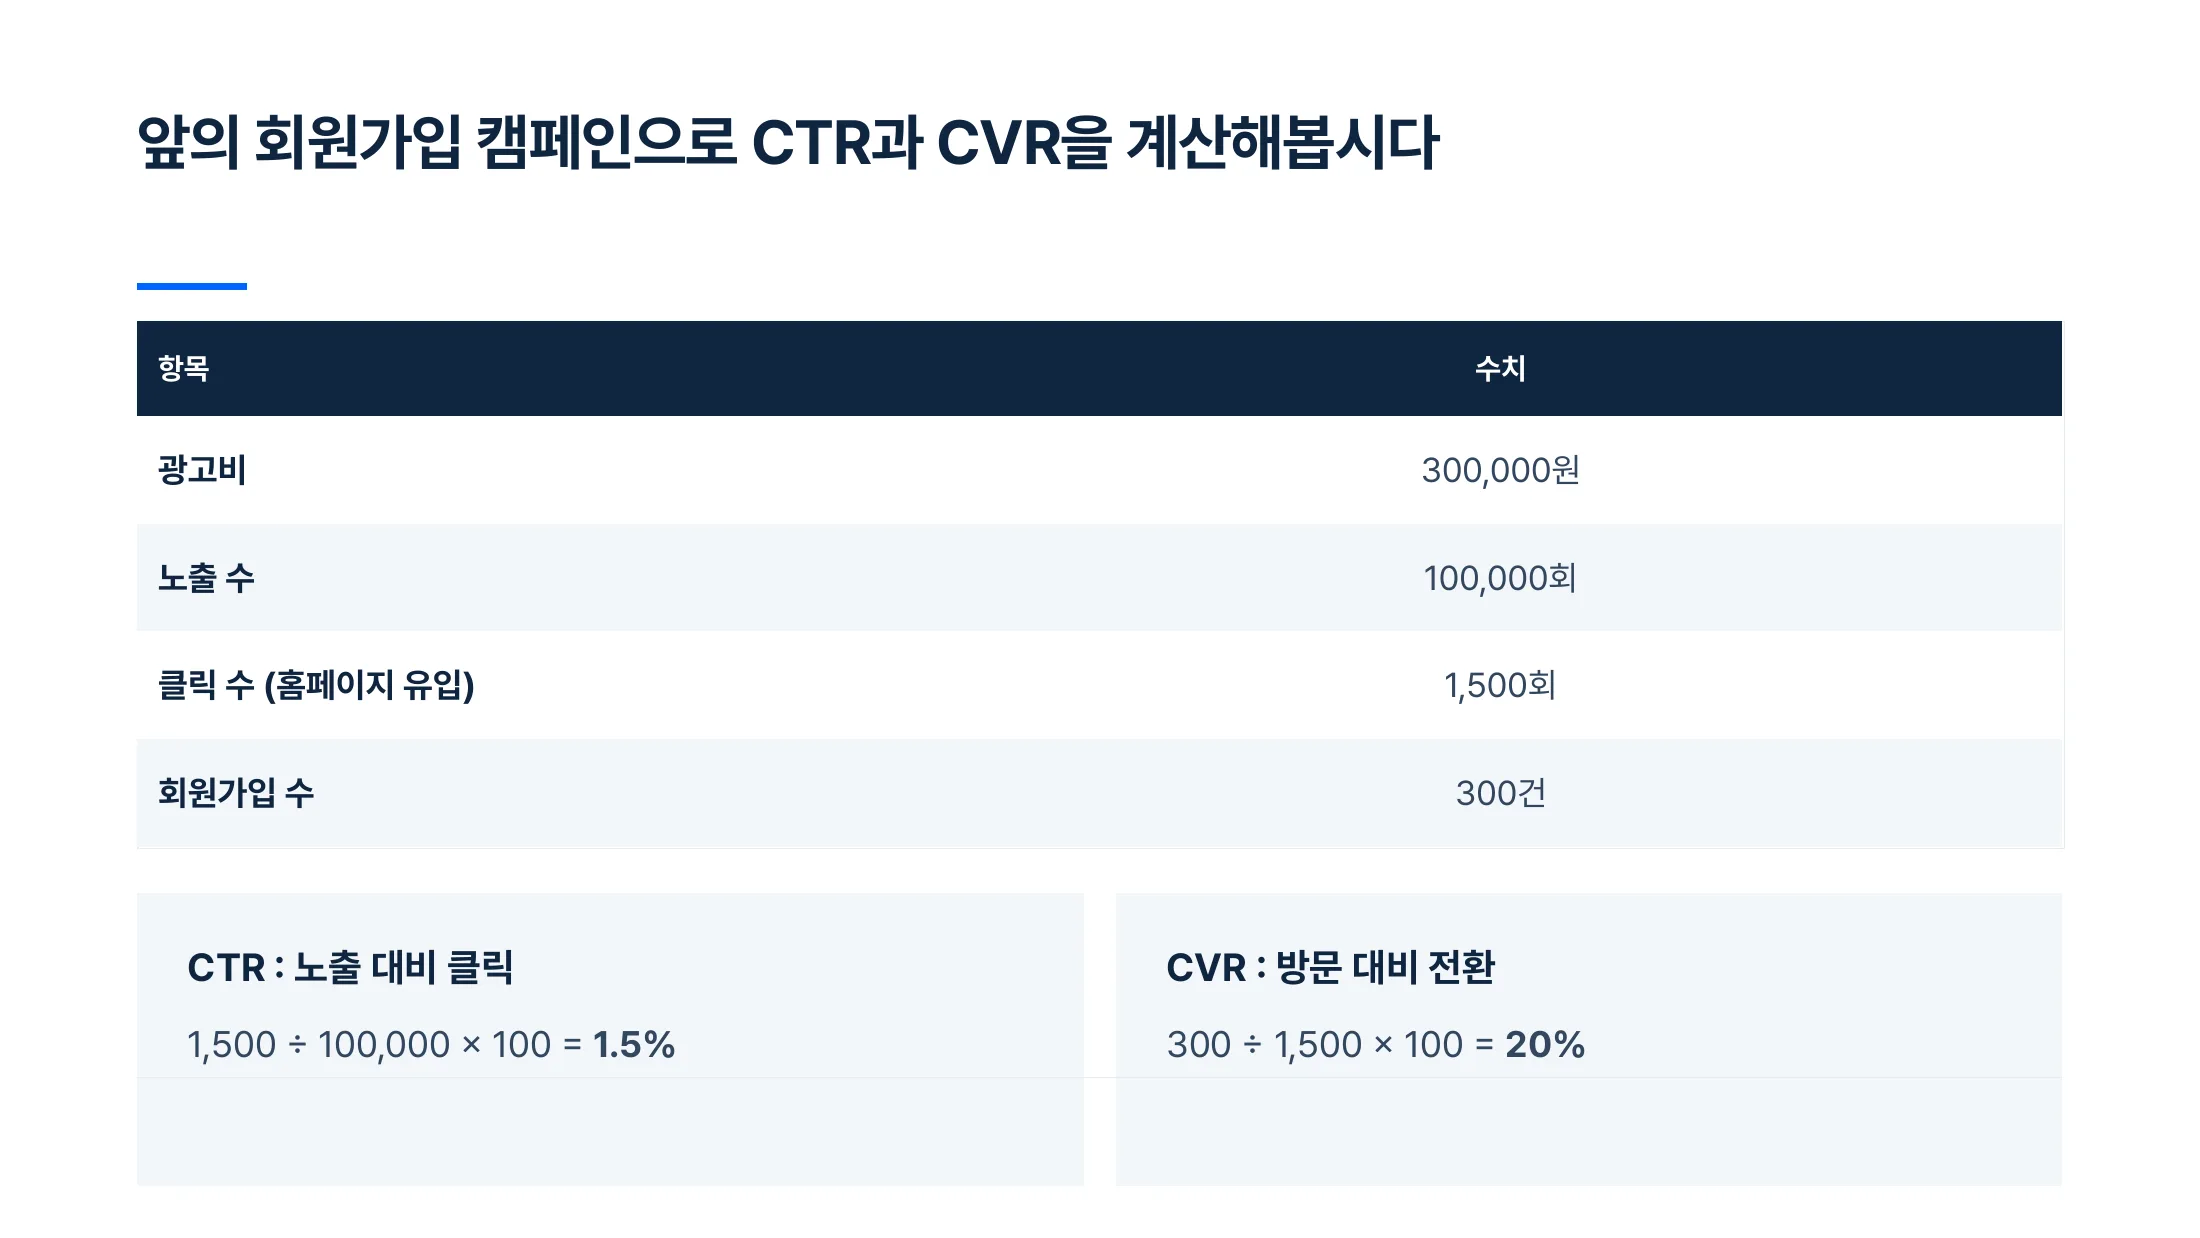
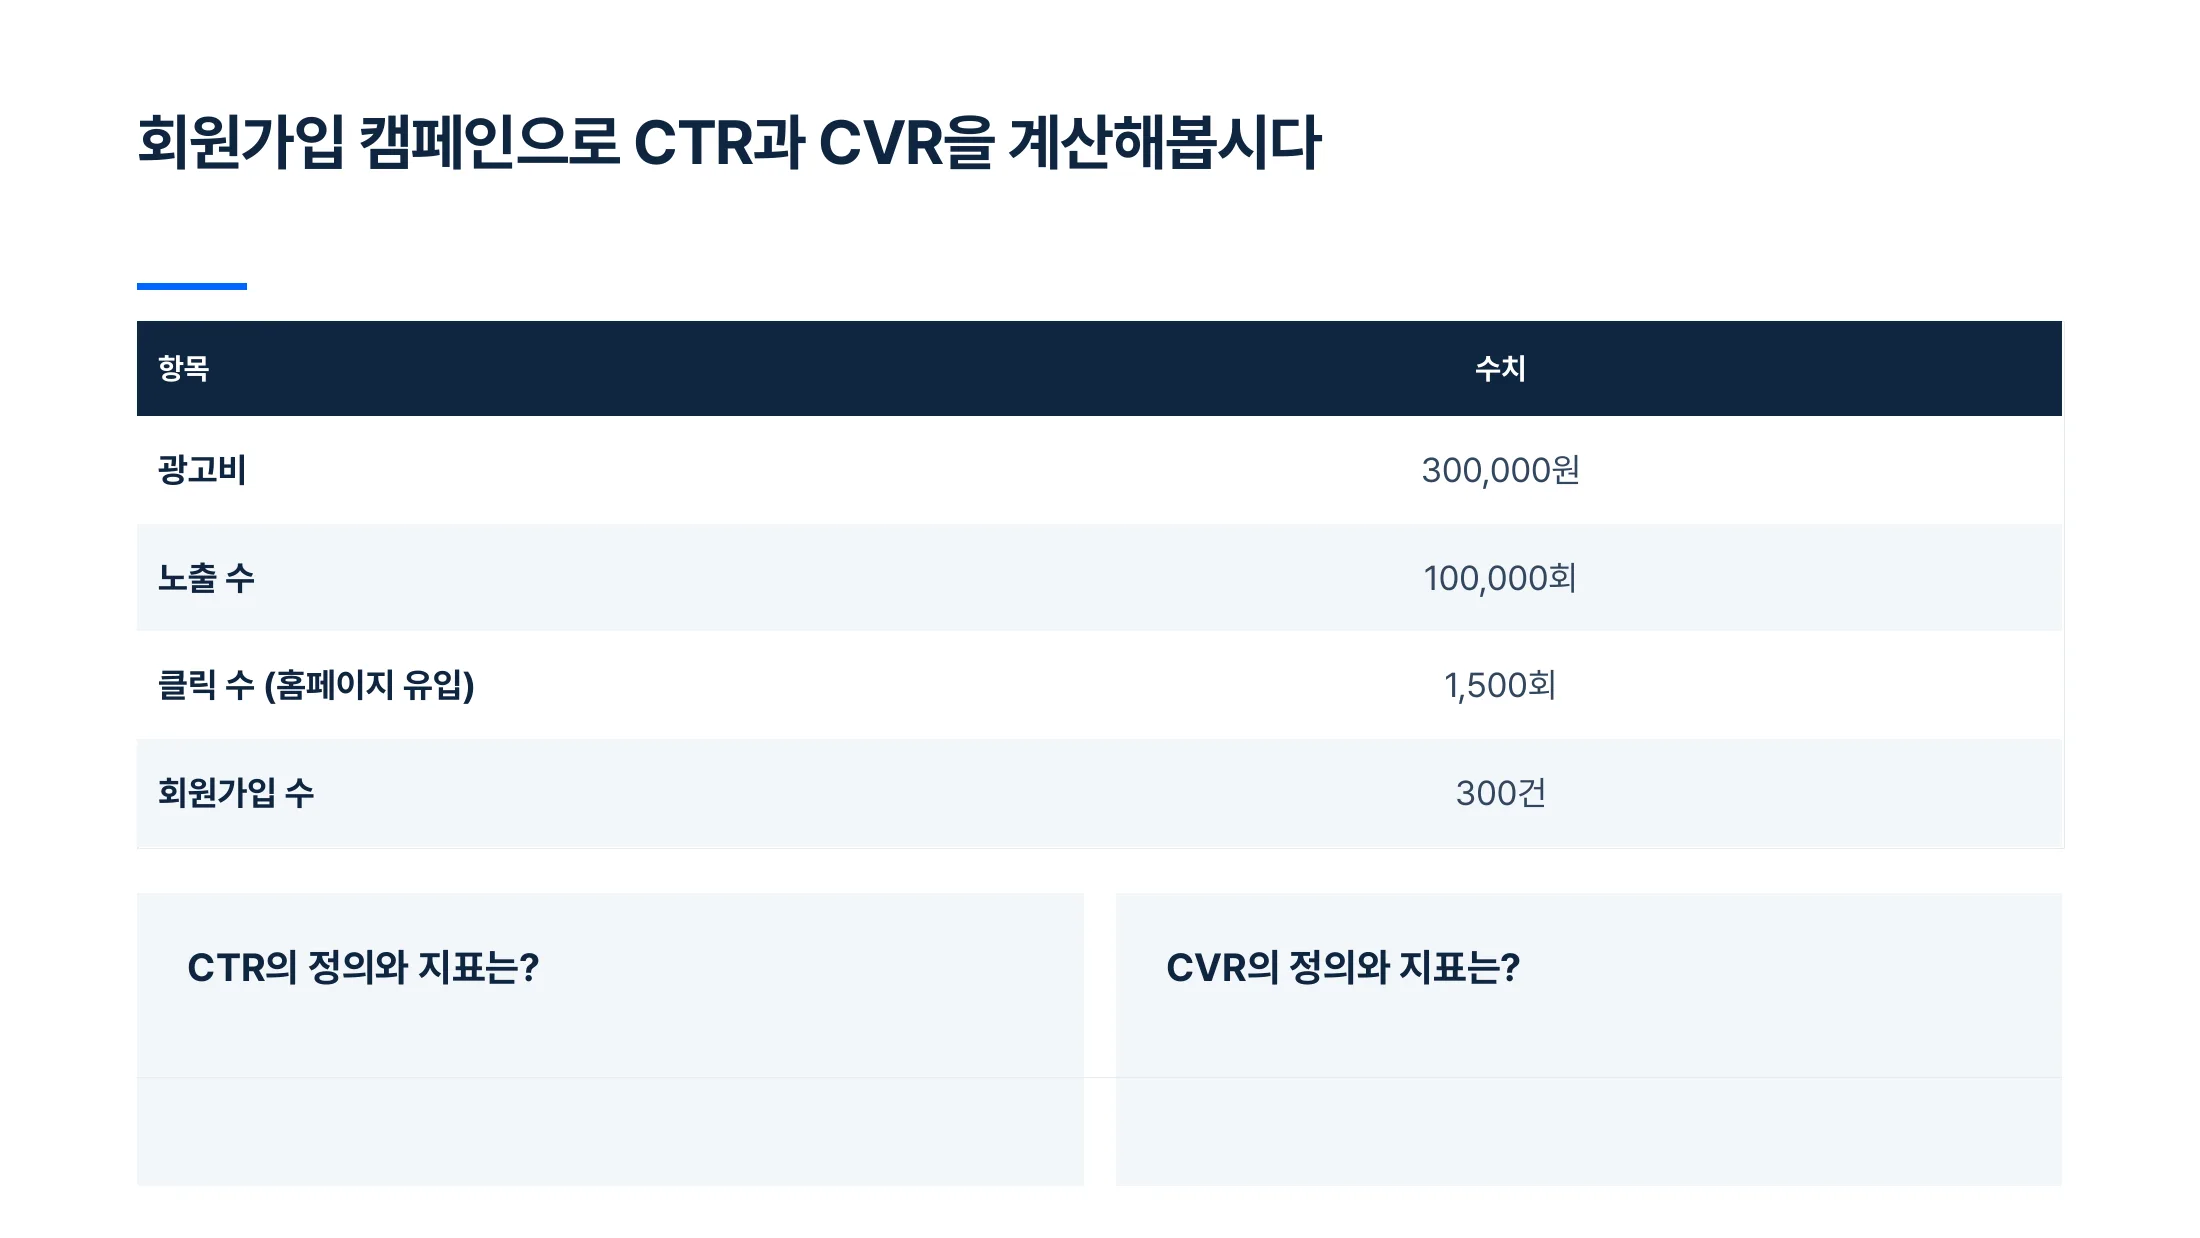
Update Chapter 4 slides 33 and 34 and hide 36

diff --git a/script.js b/script.js
@@ -62,6 +62,7 @@ function showChapter(i) {
   for (let p = 1; p <= ch.pages; p++) {
     if (ch.id === "ch1" && (p === 67 || p === 68)) continue;
     if (ch.id === "ch3" && p >= 54 && p <= 60) continue;
+    if (ch.id === "ch4" && p === 36) continue;
     const slide = document.createElement("div");
     slide.className = "slide";
     const img = document.createElement("img");

diff --git a/index.html b/index.html
@@ -83,7 +83,7 @@
   </footer>
 
   <script src="chapters.js?v=chapter4-20261105"></script>
-  <script src="links.js?v=chapter4-20261105"></script>
-  <script src="script.js?v=chapter3-hidden-20261105"></script>
+  <script src="links.js?v=chapter4-update-20261106"></script>
+  <script src="script.js?v=chapter4-update-20261106"></script>
 </body>
 </html>

diff --git a/extract_links.py b/extract_links.py
@@ -16,7 +16,7 @@ CHAPTERS = {
     "ch1": {"last_page": 69, "hidden": {67, 68}},
     "ch2": {"last_page": 110, "hidden": set()},
     "ch3": {"last_page": 61, "hidden": set(range(54, 61))},
-    "ch4": {"last_page": 39, "hidden": set()},
+    "ch4": {"last_page": 39, "hidden": {33, 34, 36}},
 }
 
 URL_TEXT = re.compile(
